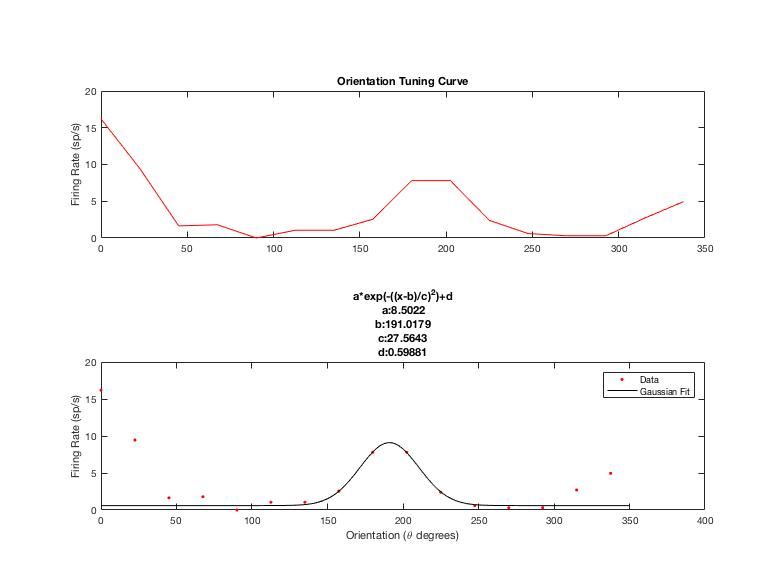
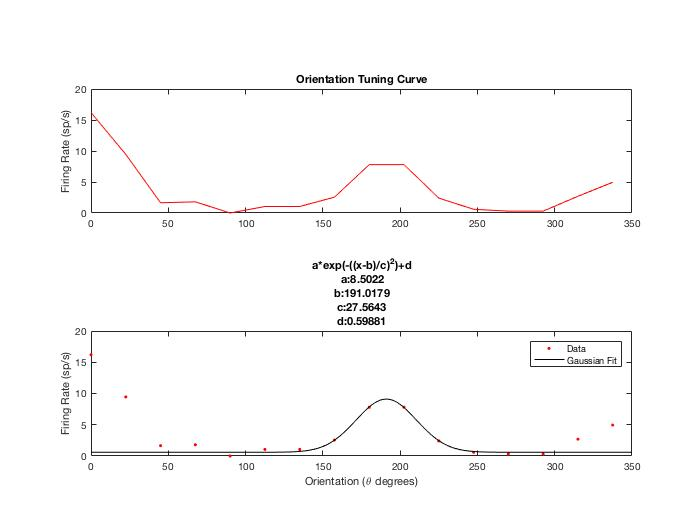
changed x axis on image

diff --git a/hw03/tuning_curves.m b/hw03/tuning_curves.m
@@ -5,12 +5,12 @@ data = load('orientation_tuning_data.mat');
 
 Vm = data.Vm;
 
-% %part a
-% figure;
-% plot(linspace(1,10,10000), Vm(1:10000));
-% title('First 10 Seconds of Vm Trace');
-% xlabel('Time (s)');
-% ylabel('Vm (mV)')
+%part a
+figure;
+plot(linspace(1,10,10000), Vm(1:10000));
+title('First 10 Seconds of Vm Trace');
+xlabel('Time (s)');
+ylabel('Vm (mV)')
 
 
 %part b
@@ -62,7 +62,7 @@ theta = 0:22.5:337.5;
 
 subplot(2,1,1);
 plot(theta, spikeCounts, 'r');
-
+xlim([0, 350])
 
 ylabel('Firing Rate (sp/s)');
 title('Orientation Tuning Curve');
@@ -70,6 +70,7 @@ title('Orientation Tuning Curve');
 subplot(2,1,2);
 
 plot(theta, spikeCounts, 'r.');
+xlim([0, 350])
 hold on;
 %Extra credit curve fitting
 
